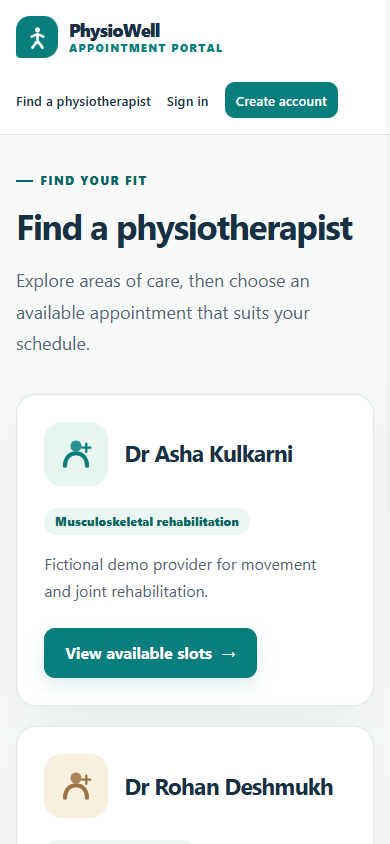
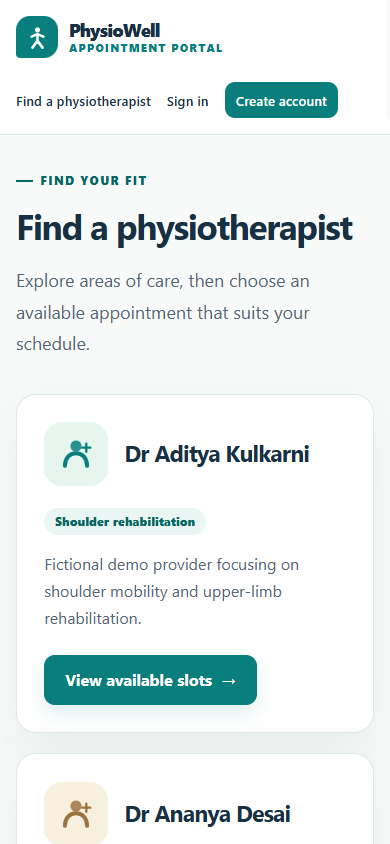
feat: seed thirteen additional physiotherapists and their appointment slots

diff --git a/src/main/java/com/kirtivispute/physio/appointment/DemoData.java b/src/main/java/com/kirtivispute/physio/appointment/DemoData.java
@@ -19,8 +19,22 @@ public class DemoData implements ApplicationRunner {
     }
     @Override @Transactional
     public void run(ApplicationArguments arguments) {
-        var seeds = List.of(new Physiotherapist("Dr Asha Kulkarni", "Musculoskeletal rehabilitation", "Fictional demo provider for movement and joint rehabilitation."),
-                new Physiotherapist("Dr Rohan Deshmukh", "Sports physiotherapy", "Fictional demo provider for activity and sports rehabilitation."));
+        var seeds = List.of(
+                new Physiotherapist("Dr Asha Kulkarni", "Musculoskeletal rehabilitation", "Fictional demo provider for movement and joint rehabilitation."),
+                new Physiotherapist("Dr Rohan Deshmukh", "Sports physiotherapy", "Fictional demo provider for activity and sports rehabilitation."),
+                new Physiotherapist("Dr Neha Shah", "Neurological rehabilitation", "Fictional demo provider focusing on movement coordination and neurological rehabilitation."),
+                new Physiotherapist("Dr Vikram Patil", "Post-operative rehabilitation", "Fictional demo provider focusing on mobility and rehabilitation after surgery."),
+                new Physiotherapist("Dr Meera Joshi", "Paediatric physiotherapy", "Fictional demo provider focusing on movement, balance and physical development in children."),
+                new Physiotherapist("Dr Arjun Nair", "Geriatric mobility", "Fictional demo provider focusing on everyday mobility and strength for older adults."),
+                new Physiotherapist("Dr Sneha Iyer", "Cardiorespiratory physiotherapy", "Fictional demo provider focusing on breathing, endurance and physical conditioning."),
+                new Physiotherapist("Dr Kabir Mehta", "Spine and posture care", "Fictional demo provider focusing on spinal mobility, posture and everyday movement."),
+                new Physiotherapist("Dr Priya Rao", "Hand and wrist rehabilitation", "Fictional demo provider focusing on hand function, wrist mobility and daily activities."),
+                new Physiotherapist("Dr Aditya Kulkarni", "Shoulder rehabilitation", "Fictional demo provider focusing on shoulder mobility and upper-limb rehabilitation."),
+                new Physiotherapist("Dr Ananya Desai", "Women's health physiotherapy", "Fictional demo provider focusing on pelvic health and physical rehabilitation for women."),
+                new Physiotherapist("Dr Rahul Menon", "Balance and gait training", "Fictional demo provider focusing on balance, walking patterns and movement confidence."),
+                new Physiotherapist("Dr Kavya Reddy", "Occupational rehabilitation", "Fictional demo provider focusing on functional movement and return to everyday work activities."),
+                new Physiotherapist("Dr Nikhil Bansal", "Chronic pain rehabilitation", "Fictional demo provider focusing on functional movement and rehabilitation for persistent pain."),
+                new Physiotherapist("Dr Ishita Verma", "Hip and knee rehabilitation", "Fictional demo provider focusing on lower-limb mobility and hip and knee rehabilitation."));
         ZoneId clinic = ZoneId.of("Asia/Kolkata");
         LocalDate today = LocalDate.now(clock.withZone(clinic));
         for (var seed : seeds) {

diff --git a/src/test/java/com/kirtivispute/physio/appointment/PortalIntegrationTest.java b/src/test/java/com/kirtivispute/physio/appointment/PortalIntegrationTest.java
@@ -293,12 +293,24 @@ class PortalIntegrationTest {
 
     @Test void seedDataIsRepeatableWithoutDuplicateOrReopenedSlots() {
         slots.deleteAll(); providers.deleteAll();
+        var existingAsha = providers.saveAndFlush(new Physiotherapist("Dr Asha Kulkarni", "Musculoskeletal rehabilitation", "Existing demo provider"));
+        var existingRohan = providers.saveAndFlush(new Physiotherapist("Dr Rohan Deshmukh", "Sports physiotherapy", "Existing demo provider"));
+        ZoneId clinic = ZoneId.of("Asia/Kolkata");
+        Instant start = LocalDate.now(clock.withZone(clinic)).plusDays(1).atTime(9, 0).atZone(clinic).toInstant();
+        Slot closed = new Slot(existingAsha, start, start.plusSeconds(45 * 60));
+        closed.setAvailable(false); slots.saveAndFlush(closed);
         DemoData seed = new DemoData(providers, slots, clock);
         seed.run(null);
-        assertThat(providers.count()).isEqualTo(2); assertThat(slots.count()).isEqualTo(12);
-        Slot closed = slots.findAll().getFirst(); closed.setAvailable(false); slots.saveAndFlush(closed);
+        assertThat(providers.count()).isEqualTo(15); assertThat(slots.count()).isEqualTo(90);
+        assertThat(providers.findByFullName("Dr Asha Kulkarni").orElseThrow().getId()).isEqualTo(existingAsha.getId());
+        assertThat(providers.findByFullName("Dr Rohan Deshmukh").orElseThrow().getId()).isEqualTo(existingRohan.getId());
+        assertThat(slots.findById(closed.getId()).orElseThrow().isAvailable()).isFalse();
+        var seededSlots = slots.findAll();
+        for (var doctor : providers.findAll()) {
+            assertThat(seededSlots.stream().filter(slot -> slot.getPhysiotherapist().getId().equals(doctor.getId()))).hasSize(6);
+        }
         seed.run(null);
-        assertThat(providers.count()).isEqualTo(2); assertThat(slots.count()).isEqualTo(12);
+        assertThat(providers.count()).isEqualTo(15); assertThat(slots.count()).isEqualTo(90);
         assertThat(slots.findById(closed.getId()).orElseThrow().isAvailable()).isFalse();
     }
 }

diff --git a/docs/seed-data.md b/docs/seed-data.md
@@ -1,0 +1,37 @@
+# Expanded physiotherapist demo data
+
+The portal now seeds 15 fictional physiotherapists: the original Dr Asha Kulkarni and Dr Rohan Deshmukh, plus the following 13. Names, descriptions and schedules are demo content.
+
+| Added physiotherapist | Specialty |
+|---|---|
+| Dr Neha Shah | Neurological rehabilitation |
+| Dr Vikram Patil | Post-operative rehabilitation |
+| Dr Meera Joshi | Paediatric physiotherapy |
+| Dr Arjun Nair | Geriatric mobility |
+| Dr Sneha Iyer | Cardiorespiratory physiotherapy |
+| Dr Kabir Mehta | Spine and posture care |
+| Dr Priya Rao | Hand and wrist rehabilitation |
+| Dr Aditya Kulkarni | Shoulder rehabilitation |
+| Dr Ananya Desai | Women's health physiotherapy |
+| Dr Rahul Menon | Balance and gait training |
+| Dr Kavya Reddy | Occupational rehabilitation |
+| Dr Nikhil Bansal | Chronic pain rehabilitation |
+| Dr Ishita Verma | Hip and knee rehabilitation |
+
+## Availability and existing data
+
+- Startup adds two 45-minute slots per day (09:00 and 11:00 IST) for each provider over the next three days: six per provider and 90 on a fresh database.
+- Existing providers are found by name and retain their IDs. The original two names stay available for the existing browser test journeys.
+- Existing slots are found by provider and start time. Their availability is retained, including occupied slots. No patient or appointment data is removed.
+- Older slots remain as history; only future available slots are offered for booking. A persistent database may contain more than 90 historical and current slots.
+- `DEMO_SEED_ENABLED=false` still disables startup seeding.
+
+## Affected project tasks
+
+This expands the T5–T6 demo directory within the existing patient MVP. The T9–T10 seed integration check now verifies an upgrade from the original two providers to 15, six slots per provider, retained provider IDs and occupied slot state, and repeat startup without duplicates. Existing Maven/Jenkins T7–T8 and Docker T11–T12 configuration is reused. The Linux provisioning demonstrations and original T1–T15 evidence remain historical. This addendum and current directory screenshots supplement the final pack.
+
+## Local verification
+
+On 4 October 2026, `mvn -B -ntp package` passed all 34 backend tests with zero failures, errors or skips ([build log](evidence/Seed_expansion_backend.txt)). The first sandboxed attempt could not establish the tests' localhost connection; the successful rerun had local network access.
+
+The fresh preview's [public API check](evidence/Seed_expansion_preview.json) confirmed exactly 15 providers and 90 available slots, six for every provider. The refreshed [desktop](../screenshots/UI_providers_desktop.png) and [mobile](../screenshots/UI_providers_mobile.png) screenshots show the start of the scrollable directory. At 390 pixels, page scroll width equalled viewport width, with no horizontal overflow. The full Jenkins backend/browser gate runs after merge.

diff --git a/README.md b/README.md
@@ -73,7 +73,9 @@ java -jar target/physio-portal-1.0.0.jar
 
 The build creates the `1.0.0` executable JAR; the second command chooses port 8083 because Jenkins uses 8080 and Task 8 deployments use 8081/8082; the third starts a separate manual app. Expected: Maven `BUILD SUCCESS` and Spring Boot startup on 8083. Open `http://localhost:8083/`, register a fictional account, sign in, and book a slot. If Maven cannot download dependencies, check Maven Central connectivity. If the port is occupied, choose another free `PORT` in the same terminal. Press `Ctrl+C` to stop this manual app. The live Task 8 portal is already available at [localhost:8082](http://localhost:8082/) without starting a manual copy.
 
-The H2 file `data/physio.mv.db` retains patient/appointment data across restarts. `DEMO_SEED_ENABLED` defaults to `true`: startup seeds two fictional providers and 12 slots across the next three days, preserving existing availability. An unbooked slot must start in the future to appear. Set `$env:DEMO_SEED_ENABLED='false'` to disable seeding. Clean checkouts contain no patient accounts or passwords; create one through the UI. All mutation routes require CSRF; API session/token instructions are in the [API guide](docs/api-documentation.md).
+The H2 file `data/physio.mv.db` retains patient/appointment data across restarts. `DEMO_SEED_ENABLED` defaults to `true`: startup seeds 15 fictional physiotherapists with varied specialties and six 45-minute slots each (09:00 and 11:00 IST across the next three days, 90 slots on a fresh database). Existing providers and slot availability are preserved; repeated startup does not duplicate rows or reopen occupied slots. Older slots remain as history. An unbooked slot must start in the future to appear. Set `$env:DEMO_SEED_ENABLED='false'` to disable seeding. Clean checkouts contain no patient accounts or passwords; create one through the UI. All mutation routes require CSRF; API session/token instructions are in the [API guide](docs/api-documentation.md).
+
+The [expanded demo directory notes](docs/seed-data.md) list the 13 added physiotherapists and explain startup behavior and verification.
 
 In a **second PowerShell terminal, from any location**, run:
 

diff --git a/docs/ui-refresh.md b/docs/ui-refresh.md
@@ -10,7 +10,7 @@ The visual update follows the approved patient portal scope. It changes presenta
 - **Accessibility:** semantic headings and landmarks, a skip link, text alternatives, visible keyboard focus, responsive layouts, and reduced-motion support.
 - **Cost:** the illustration, icons, CSS, and system fonts are stored locally. No paid service, image license, remote font, or external runtime asset is required.
 
-The two displayed physiotherapists and their schedules remain fictional demo data. The illustration is conceptual and makes no clinical outcome claim.
+The displayed physiotherapists and their schedules remain fictional demo data. The illustration is conceptual and makes no clinical outcome claim.
 
 ## What was rechecked
 
